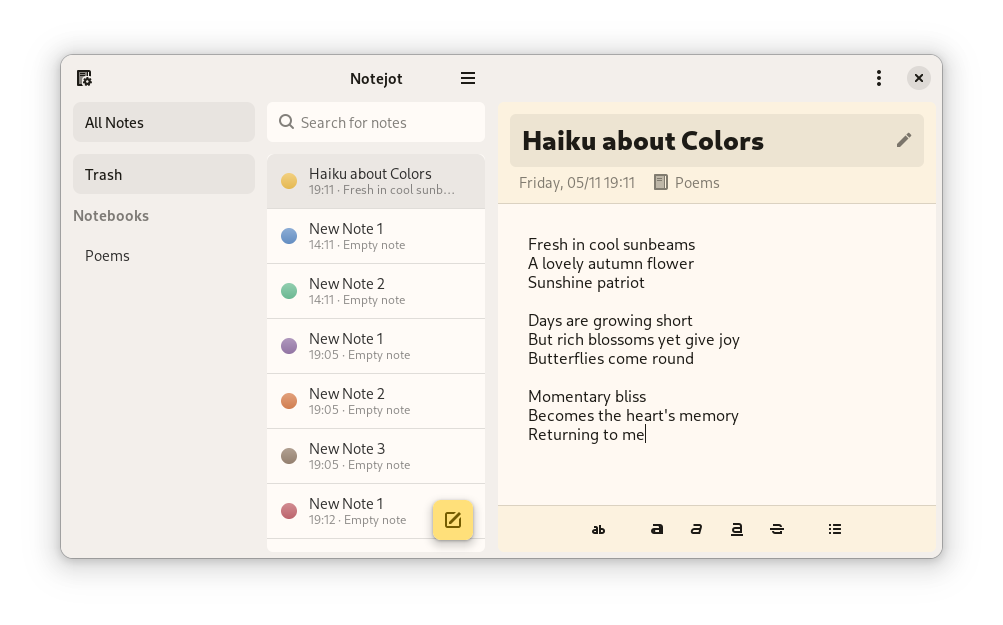
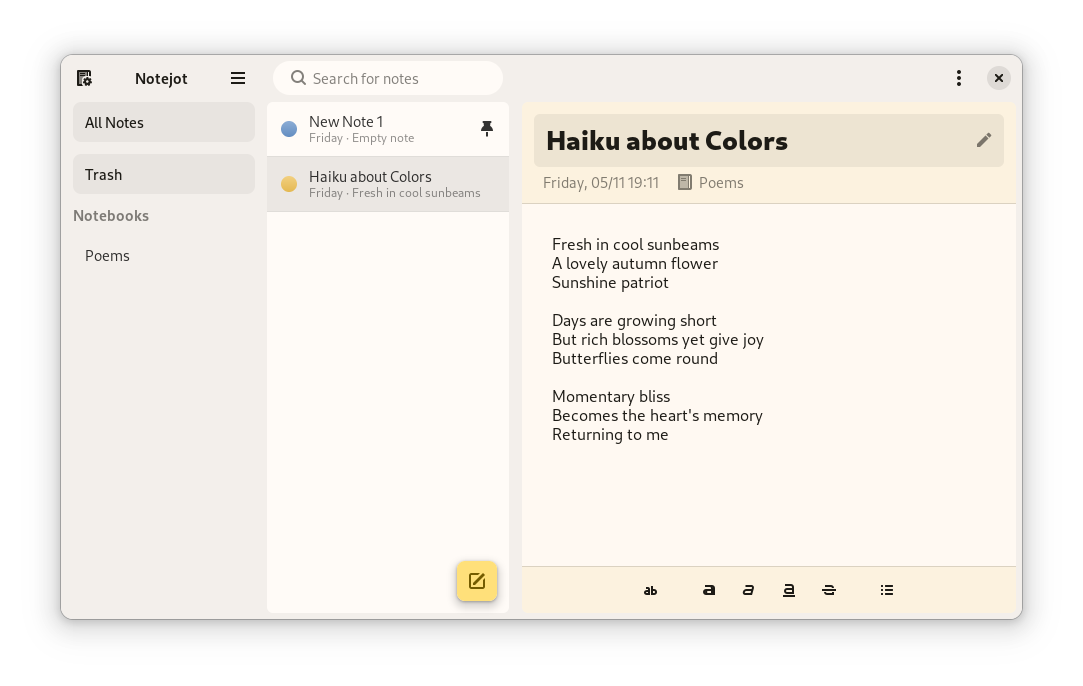
* - Some suggestions made

diff --git a/data/style.css b/data/style.css
@@ -106,8 +106,7 @@
 }
 
 .content-sidebar {
-	margin: 6px;
-	margin-bottom: 0px;
+	margin: 0 6px;
 	border-radius: 6px;
 	border: none;
 	background: @popover_bg_color;
@@ -160,8 +159,16 @@
 	background: none;
 }
 
-.pan-down {
-	transform: scale(0.67);
+.notejot-theme-grid {
+  margin: 6px;
+}
+
+.notejot-searchbar {
+  border-radius: 999px;
+  padding: 0 18px;
+  margin: 6px 0;
+  border: none;
+  background: @popover_bg_color;
 }
 
 .nw-action {
@@ -201,27 +208,12 @@
   color: @view_bg_color;
 }
 
-.notejot-theme-grid {
-  margin: 6px;
-}
-
-.notejot-searchbar {
-  border-radius: 6px;
-  border: none;
-  margin: 0 6px;
-  margin-bottom: 6px;
-  padding: 4px 12px;
-  background: @popover_bg_color;
-}
-
 .big-font {
   font-size: 1.4rem;
 }
-
 .med-font {
   font-size: 1.1rem;
 }
-
 .sml-font {
   font-size: 0.9rem;
 }
